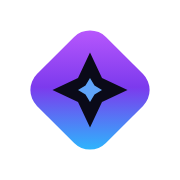
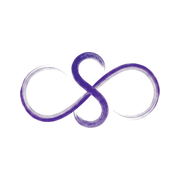
feat(brand): the Sankalp mark, on white, everywhere (#270)
The mark is a watercolour brush stroke. It cannot be a vector without losing the edge that
makes it a brush stroke, so the art is one PNG and every icon in the product is drawn from
it: the launcher, the splash, the in-app logo, the notification icon, the six web icons and
the favicon. Change that one file and all of them change together, which is the only way
they stay the same shape.

White, not purple. The old launcher background was a solid violet, and the stroke vanished
into it. The purple diamond glow behind the splash is gone too - on a white field a violet
glow reads as a smudge rather than as light.

The head is renamed in the same change, because the mark and the name are one job now that
the logo carries the wordmark: the title is Sankalp by Indo Workspace, the site name is
Sankalp, the structured data names Sankalp as the application and Indo Workspace as the
company - two words, as the name is written.

No AI anywhere: it was in the site name and the structured data, and it is not in the name.

Verified in Chromium: title, site name, share title, alt text and the three structured-data
nodes all read back correctly, the four icon links resolve, the drawer still has its 13
rows, and there are no page errors.

diff --git a/web/index.html b/web/index.html
@@ -1,5 +1,5 @@
 <!doctype html>
-<html lang="en" data-build="20261108d">
+<html lang="en" data-build="20261109a">
 <head>
   <meta charset="UTF-8" />
   <meta
@@ -14,15 +14,15 @@
     name="description"
     content="Ask in any of 22 Indian languages, keep your one-time passwords in one place, and let the assistant work with GitHub and Zoho Mail."
   />
-  <title>Indoone by Indoworkspace</title>
+  <title>Sankalp by Indo Workspace</title>
 
   <!-- What Google draws for this address, line by line.
 
        Line 1 is the site name, taken from og:site_name and the WebSite schema below, so it
-       says "Indoone AI". Line 2 is the address. Line 3 is the title tag, which names the
+       says "Sankalp". Line 2 is the address. Line 3 is the title tag, which names the
        company behind the app. Line 4 is the description, which says what the app does.
 
-       Three lines, three jobs: the name, the maker, the work. Repeating "Indoone AI" in all
+       Three lines, three jobs: the name, the maker, the work. Repeating "Sankalp" in all
        three is what makes a result read as machine-written. -->
   <link rel="canonical" href="https://indoone.indoworkspace.in/" />
 
@@ -41,8 +41,8 @@
   <link rel="apple-touch-icon" sizes="180x180" href="/assets/icon-180.png" />
 
   <meta property="og:type" content="website" />
-  <meta property="og:site_name" content="Indoone AI" />
-  <meta property="og:title" content="Indoone by Indoworkspace" />
+  <meta property="og:site_name" content="Sankalp" />
+  <meta property="og:title" content="Sankalp by Indo Workspace" />
   <meta
     property="og:description"
     content="Ask in any of 22 Indian languages, keep your one-time passwords in one place, and let the assistant work with GitHub and Zoho Mail."
@@ -51,10 +51,10 @@
   <meta property="og:image" content="https://indoone.indoworkspace.in/assets/og-image.png" />
   <meta property="og:image:width" content="1200" />
   <meta property="og:image:height" content="630" />
-  <meta property="og:image:alt" content="Indoone AI, assistant by Indoworkspace" />
+  <meta property="og:image:alt" content="Sankalp, assistant by Indo Workspace" />
 
   <meta name="twitter:card" content="summary_large_image" />
-  <meta name="twitter:title" content="Indoone by Indoworkspace" />
+  <meta name="twitter:title" content="Sankalp by Indo Workspace" />
   <meta
     name="twitter:description"
     content="Ask in any of 22 Indian languages, keep your one-time passwords in one place, and let the assistant work with GitHub and Zoho Mail."
@@ -68,14 +68,14 @@
         {
           "@type": "WebSite",
           "@id": "https://indoone.indoworkspace.in/#website",
-          "name": "Indoone AI",
+          "name": "Sankalp",
           "url": "https://indoone.indoworkspace.in/",
           "publisher": { "@id": "https://indoone.indoworkspace.in/#organization" }
         },
         {
           "@type": "Organization",
           "@id": "https://indoone.indoworkspace.in/#organization",
-          "name": "Indoworkspace",
+          "name": "Indo Workspace",
           "url": "https://indoworkspace.in/",
           "logo": {
             "@type": "ImageObject",
@@ -86,35 +86,35 @@
         },
         {
           "@type": "SoftwareApplication",
-          "name": "Indoone AI",
+          "name": "Sankalp",
           "url": "https://indoone.indoworkspace.in/",
           "applicationCategory": "ProductivityApplication",
           "operatingSystem": "Android, Web",
           "publisher": { "@id": "https://indoone.indoworkspace.in/#organization" },
-          "description": "An assistant that answers in any of 22 Indian languages, keeps one-time passwords in one place, and works with GitHub and Zoho Mail."
+          "description": "Sankalp answers in any of 22 Indian languages, keeps one-time passwords in one place, and works with GitHub and Zoho Mail."
         }
       ]
     }
   </script>
 
-  <link rel="stylesheet" href="style.css?v=20261108d" />
-  <link rel="stylesheet" href="home/home.css?v=20261108d" />
-  <link rel="stylesheet" href="home/message/message.css?v=20261108d" />
-  <link rel="stylesheet" href="home/plus/plus.css?v=20261108d" />
+  <link rel="stylesheet" href="style.css?v=20261109a" />
+  <link rel="stylesheet" href="home/home.css?v=20261109a" />
+  <link rel="stylesheet" href="home/message/message.css?v=20261109a" />
+  <link rel="stylesheet" href="home/plus/plus.css?v=20261109a" />
   <link rel="preconnect" href="https://fonts.gstatic.com" crossorigin />
   <link rel="stylesheet" href="https://fonts.googleapis.com/css2?family=Courier+Prime&display=swap" />
-  <link rel="stylesheet" href="vibe/vibe.css?v=20261108d" />
-  <link rel="stylesheet" href="shared/safe-layout/safe-layout.css?v=20261108d" />
-  <link rel="stylesheet" href="bottom-nav-svg.css?v=20261108d" />
-  <link rel="stylesheet" href="shared/app-icons.css?v=20261108d" />
-  <link rel="stylesheet" href="menu/style.css?v=20261108d" />
-  <link rel="stylesheet" href="settings/settings.css?v=20261108d" />
-  <link rel="stylesheet" href="settings/profile/style.css?v=20261108d" />
-  <link rel="stylesheet" href="settings/update/style.css?v=20261108d" />
-  <link rel="stylesheet" href="settings/profile/change-email/style.css?v=20261108d" />
-  <link rel="stylesheet" href="settings/profile/change-mobile-number/style.css?v=20261108d" />
-  <link rel="stylesheet" href="authentication/auth.css?v=20261108d" />
-  <link rel="stylesheet" href="authentication/forgot-password/style.css?v=20261108d" />
+  <link rel="stylesheet" href="vibe/vibe.css?v=20261109a" />
+  <link rel="stylesheet" href="shared/safe-layout/safe-layout.css?v=20261109a" />
+  <link rel="stylesheet" href="bottom-nav-svg.css?v=20261109a" />
+  <link rel="stylesheet" href="shared/app-icons.css?v=20261109a" />
+  <link rel="stylesheet" href="menu/style.css?v=20261109a" />
+  <link rel="stylesheet" href="settings/settings.css?v=20261109a" />
+  <link rel="stylesheet" href="settings/profile/style.css?v=20261109a" />
+  <link rel="stylesheet" href="settings/update/style.css?v=20261109a" />
+  <link rel="stylesheet" href="settings/profile/change-email/style.css?v=20261109a" />
+  <link rel="stylesheet" href="settings/profile/change-mobile-number/style.css?v=20261109a" />
+  <link rel="stylesheet" href="authentication/auth.css?v=20261109a" />
+  <link rel="stylesheet" href="authentication/forgot-password/style.css?v=20261109a" />
 </head>
 
 <body>
@@ -656,7 +656,7 @@
         <span data-app-icon="lock"></span>
         <span>Lock App</span>
       </button>
-      <p class="drawer-build">build 20261108d</p>
+      <p class="drawer-build">build 20261109a</p>
     </section>
   </aside>
 
@@ -829,51 +829,51 @@
   <script src="https://www.gstatic.com/firebasejs/10.14.1/firebase-database-compat.js"></script>
   <script src="https://www.gstatic.com/firebasejs/10.14.1/firebase-firestore-compat.js"></script>
 
-  <script src="authentication/firebase-config.js?v=20261108d"></script>
-  <script src="authentication/firebase-auth.js?v=20261108d"></script>
-  <script src="authentication/indoverification.js?v=20261108d"></script>
-  <script src="authentication/firebase-auth-otp.js?v=20261108d"></script>
-  <script src="authentication/auth-session-persistence.js?v=20261108d"></script>
-  <script src="authentication/forgot-password/script.js?v=20261108d"></script>
-  <script src="authentication/auth-page.js?v=20261108d"></script>
-  <script src="authentication/login/login.js?v=20261108d"></script>
-  <script src="authentication/sign-up/signup.js?v=20261108d"></script>
+  <script src="authentication/firebase-config.js?v=20261109a"></script>
+  <script src="authentication/firebase-auth.js?v=20261109a"></script>
+  <script src="authentication/indoverification.js?v=20261109a"></script>
+  <script src="authentication/firebase-auth-otp.js?v=20261109a"></script>
+  <script src="authentication/auth-session-persistence.js?v=20261109a"></script>
+  <script src="authentication/forgot-password/script.js?v=20261109a"></script>
+  <script src="authentication/auth-page.js?v=20261109a"></script>
+  <script src="authentication/login/login.js?v=20261109a"></script>
+  <script src="authentication/sign-up/signup.js?v=20261109a"></script>
 
-  <script src="home/home.js?v=20261108d"></script>
-  <script src="home/chat-home.js?v=20261108d"></script>
-  <script src="shared/branding.js?v=20261108d"></script>
-  <script src="shared/app-icons.js?v=20261108d"></script>
-  <script src="shared/core.js?v=20261108d"></script>
-  <script src="shared/state.js?v=20261108d"></script>
+  <script src="home/home.js?v=20261109a"></script>
+  <script src="home/chat-home.js?v=20261109a"></script>
+  <script src="shared/branding.js?v=20261109a"></script>
+  <script src="shared/app-icons.js?v=20261109a"></script>
+  <script src="shared/core.js?v=20261109a"></script>
+  <script src="shared/state.js?v=20261109a"></script>
 
   <!-- The web counterpart of android/menu/data/UserDataRepository.kt. Profile
        and Memory read and write through it, and Chat History lists through it.
        It was written and then never loaded by anything, so all three reported
        "Cannot read properties of undefined (reading 'readProfile')" instead of
        showing their data. -->
-  <script src="menu/data/user-data.js?v=20261108d"></script>
-  <script src="shared/cloud-accounts.js?v=20261108d"></script>
-  <script src="lobby/accounts/totp.js?v=20261108d"></script>
-  <script src="authentication/secure-session.js?v=20261108d"></script>
-  <script src="shared/persistence.js?v=20261108d"></script>
+  <script src="menu/data/user-data.js?v=20261109a"></script>
+  <script src="shared/cloud-accounts.js?v=20261109a"></script>
+  <script src="lobby/accounts/totp.js?v=20261109a"></script>
+  <script src="authentication/secure-session.js?v=20261109a"></script>
+  <script src="shared/persistence.js?v=20261109a"></script>
 
-  <script src="menu/script.js?v=20261108d"></script>
-  <script src="lobby/accounts/search/script.js?v=20261108d"></script>
-  <script src="lobby/accounts/accounts/edit/script.js?v=20261108d"></script>
-  <script src="lobby/accounts/accounts/edit/edit.js?v=20261108d"></script>
-  <script src="lobby/accounts/totp-controller.js?v=20261108d"></script>
-  <script src="shared/favorite.js?v=20261108d"></script>
+  <script src="menu/script.js?v=20261109a"></script>
+  <script src="lobby/accounts/search/script.js?v=20261109a"></script>
+  <script src="lobby/accounts/accounts/edit/script.js?v=20261109a"></script>
+  <script src="lobby/accounts/accounts/edit/edit.js?v=20261109a"></script>
+  <script src="lobby/accounts/totp-controller.js?v=20261109a"></script>
+  <script src="shared/favorite.js?v=20261109a"></script>
 
-  <script src="settings/profile/script.js?v=20261108d"></script>
-  <script src="settings/update/script.js?v=20261108d"></script>
-  <script src="settings/profile/change-mobile-number/script.js?v=20261108d"></script>
-  <script src="settings/profile/change-email/script.js?v=20261108d"></script>
-  <script src="settings/settings.js?v=20261108d"></script>
+  <script src="settings/profile/script.js?v=20261109a"></script>
+  <script src="settings/update/script.js?v=20261109a"></script>
+  <script src="settings/profile/change-mobile-number/script.js?v=20261109a"></script>
+  <script src="settings/profile/change-email/script.js?v=20261109a"></script>
+  <script src="settings/settings.js?v=20261109a"></script>
 
-  <script src="shared/navigation.js?v=20261108d"></script>
-  <script src="shared/navigation-icons.js?v=20261108d"></script>
+  <script src="shared/navigation.js?v=20261109a"></script>
+  <script src="shared/navigation-icons.js?v=20261109a"></script>
 
-  <script src="shared/events.js?v=20261108d"></script>
-  <script src="shared/safe-layout/safe-layout.js?v=20261108d"></script>
+  <script src="shared/events.js?v=20261109a"></script>
+  <script src="shared/safe-layout/safe-layout.js?v=20261109a"></script>
 </body>
 </html>

diff --git a/web/menu/script.js b/web/menu/script.js
@@ -12,7 +12,7 @@
   // version from October while this constant had been bumped several times, so a returning
   // browser kept the old loader, which kept asking for the old section scripts - and the
   // plugins page went on showing a provider that had been removed weeks earlier.
-  const ASSET_VERSION = '20261108d';
+  const ASSET_VERSION = '20261109a';
   let suppressNextUnderlyingClick = false;
 
   const featureInitializers = {
